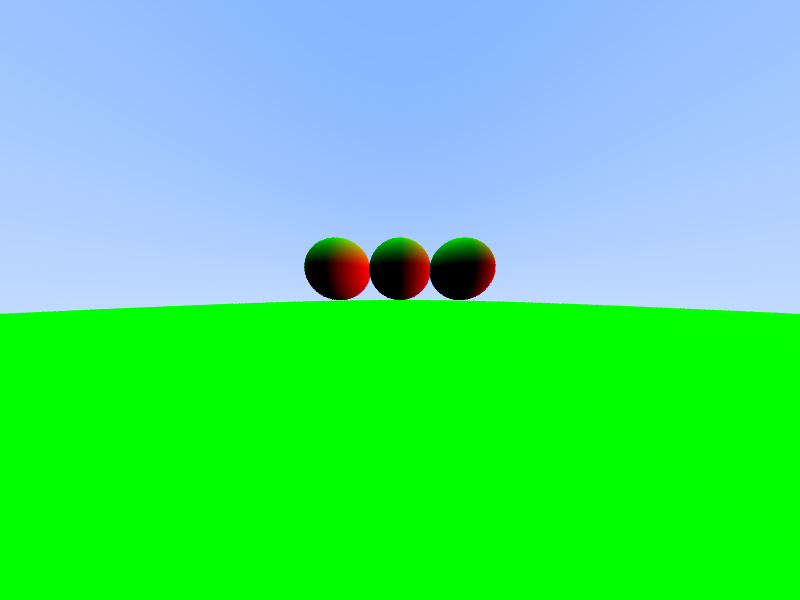
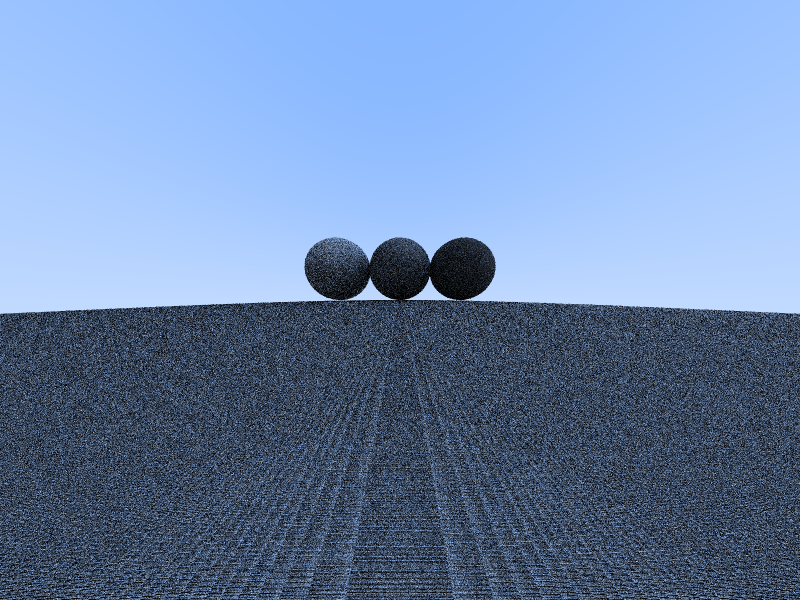
Add diffusion

diff --git a/raytrace.c b/raytrace.c
@@ -57,12 +57,10 @@ static color ray_color(world here, ray rr, int depth);
 
 static color surface_color(world here, sphere *obj, ray rr, vec point, int depth) {
   vec normal = normalize(sub(point, obj->cp));
-  return normal;
-  //ray bounce = { point, random_on_hemisphere(normal) };
-  //if (depth <= 0) return BLACK;
-  //return scale(ray_color(here, bounce, depth-1), 0.5);
+  ray bounce = { point, random_on_hemisphere(normal) };
+  if (depth <= 0) return BLACK;
+  return scale(ray_color(here, bounce, depth-1), (1.0-obj->ma.absorbtion));
 }
-
 
 static bool find_nearest_intersection(ray rr, sphere ss, sc *intersection) {
   vec center_rel = sub(rr.start, ss.cp);
@@ -140,7 +138,7 @@ static ray get_ray(int w, int h, int x, int y) {
 static void render(world here, int w, int h)
 {
   int samples_per_pixel = 10;
-  int max_bounces = 5;
+  int max_bounces = 10;
 
   output_header(w, h);
   for (int i = 0; i < h; i++)
@@ -157,9 +155,9 @@ static void render(world here, int w, int h)
 int main(int argc, char **argv) {
   sphere ss[4] = { 
     { .ma = { .co = {0, .5, 0} }, .r = 100, .cp = {0, -100, 5} }, // Ground
-    { .ma = { .co = {.5, 0, 0} }, .r = 1, .cp = {-2, 1, 5} }, // Sphere 1
-    { .ma = { .co = {0, .5, 0} }, .r = 1, .cp = {0, 1, 5} }, // Sphere 2
-    { .ma = { .co = {0, 0, .5} }, .r = 1, .cp = {2, 1, 5} }, // Sphere 3
+    { .ma = { .co = {.5, 0, 0}, .absorbtion = 0.1 }, .r = 1, .cp = {-2, 1, 5} }, // Sphere 1
+    { .ma = { .co = {0, .5, 0}, .absorbtion = 0.3 }, .r = 1, .cp = {0, 1, 5} }, // Sphere 2
+    { .ma = { .co = {0, 0, .5}, .absorbtion = 0.5 }, .r = 1, .cp = {2, 1, 5} }, // Sphere 3
   };
   world here = { ss, 4 };
   render(here, 800, 600);
